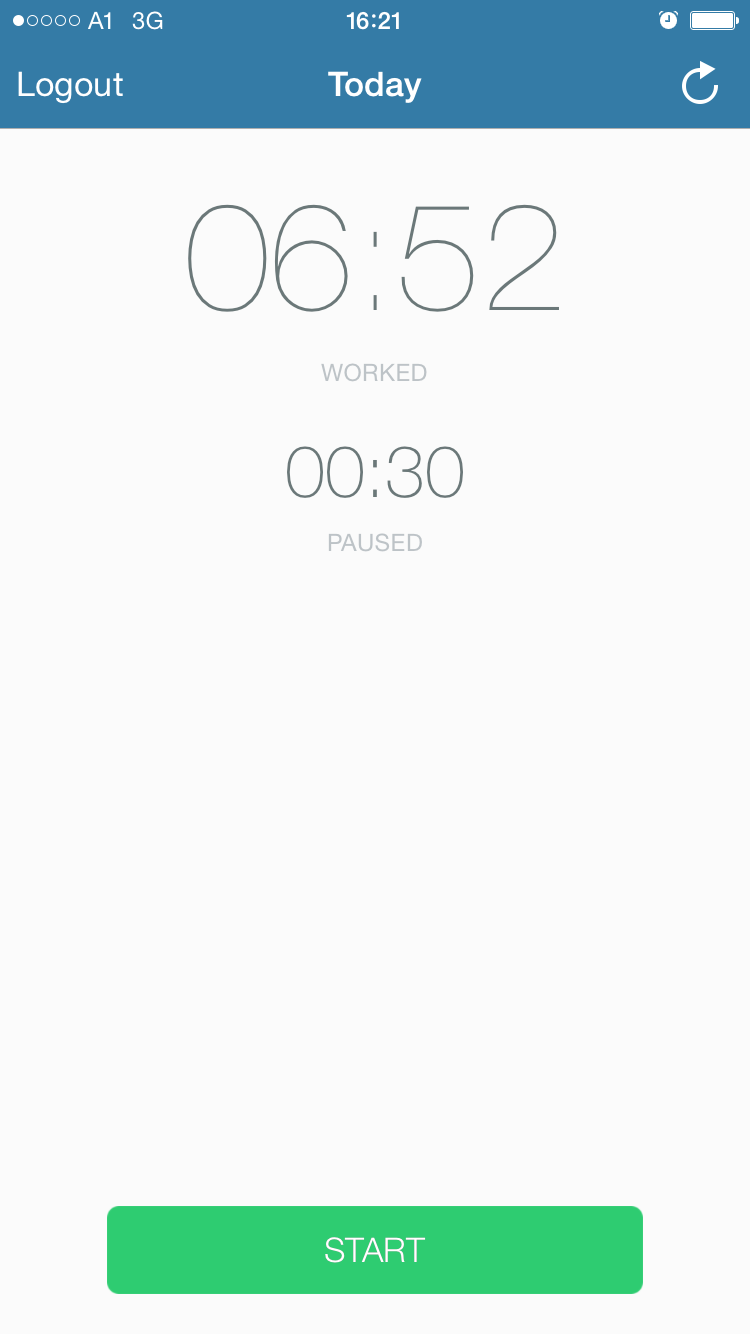
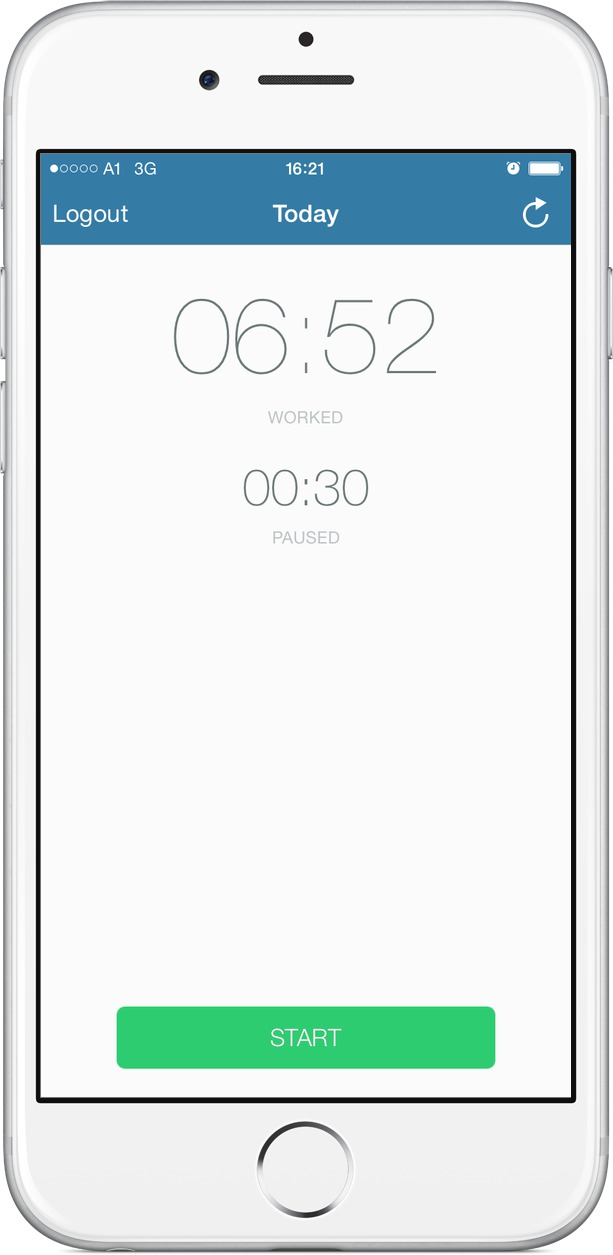
added screenshot

diff --git a/README.md b/README.md
@@ -1,2 +1,17 @@
-# TimeTracking-iOS
-Overtime: A TimeTracking Client for iOS
+#Overtime: A TimeTracking Client for iOS
+
+![Screenshot](https://github.com/denrase/TimeTracking-iOS/blob/master/screenshot.PNG)
+
+This is the iOS client for the [TimeTracking](https://github.com/mbrugger/timetracking) webservice build by [Marting Brugger](https://github.com/mbrugger). It consists of a universal iOS app and a watchOS app. You can start and end your workday, and see your worked and paused time.
+
+The app is written in Swift only, uses [Carthage](https://github.com/Carthage/Carthage) for dependency management, [Alamofire](https://github.com/Alamofire/Alamofire) for network communication, and a shared framework for data syncing between watch and phone.
+
+## Building
+
+If necessary, update to the latest version of Carthage.
+
+Clone the repository, then run `carthage update`, opening the generated Xcode workspace.
+
+## Licence
+
+Licensed under MIT.
